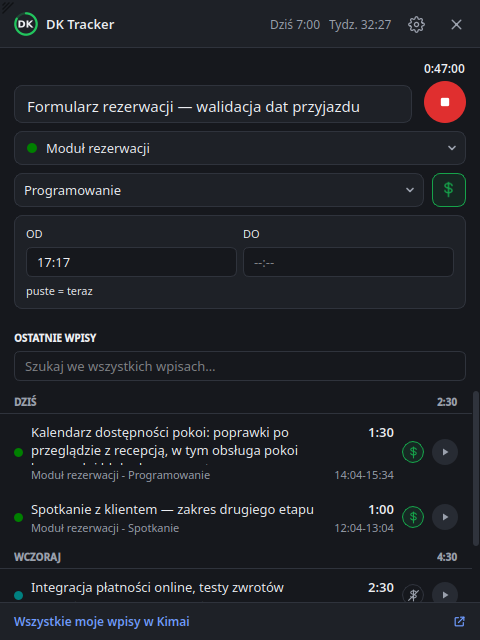
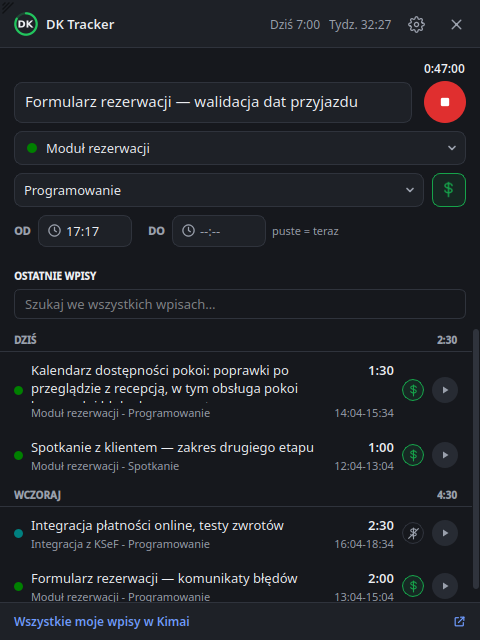
docs: nowy zrzut okienka przy tacce (OD/DO w jednym wierszu)

diff --git a/TODO/W-TRAKCIE/0077-godziny-w-okienku-przy-tacce/prototyp/zrzut-okna.py b/TODO/W-TRAKCIE/0077-godziny-w-okienku-przy-tacce/prototyp/zrzut-okna.py
@@ -1,0 +1,39 @@
+"""The screenshot for README and Discover: the quick window, dark theme, made-up data only.
+
+Copy of 0065/prototyp/zrzut-okna.py for 0.10.9 (times chosen from a list). Run from the repo root:
+    QT_QPA_PLATFORM=offscreen PYTHONPATH=src .venv/bin/python <this file> docs/assets/zrzuty/okno-ciemny-motyw.png
+"""
+import sys
+from dataclasses import replace
+from datetime import timedelta
+sys.path.insert(0, ".")
+from PySide6.QtCore import Qt, QSize
+from PySide6.QtWidgets import QApplication
+app = QApplication([])
+app.styleHints().setColorScheme(Qt.ColorScheme.Dark)
+from dk_tracker.core.i18n import Translator
+from dk_tracker.core.settings import Settings
+from dk_tracker.core.models import Activity
+from dk_tracker.core.tracker import Snapshot, Totals
+from dk_tracker.ui.popup import QuickWindow
+from dk_tracker.ui.state import AppState
+from tests.core.fakes import NOW, FakeClient, make_entry
+c = FakeClient()
+H = timedelta(hours=1)
+running = make_entry(1, NOW - timedelta(minutes=47), description="Formularz rezerwacji — walidacja dat przyjazdu")
+recent = (
+    make_entry(2, NOW - 4 * H, NOW - 2.5 * H, description="Kalendarz dostępności pokoi: poprawki po przeglądzie z recepcją, w tym obsługa pokoi łączonych i blokad na remont"),
+    make_entry(3, NOW - 6 * H, NOW - 5 * H, description="Spotkanie z klientem — zakres drugiego etapu", activity_id=2),
+    replace(make_entry(4, NOW - 26 * H, NOW - 23.5 * H, description="Integracja płatności online, testy zwrotów", billable=False), project_name="Integracja z KSeF", project_color="#008080"),
+    make_entry(5, NOW - 29 * H, NOW - 27 * H, description="Formularz rezerwacji — komunikaty błędów"),
+)
+recent = tuple(replace(e, activity_name="Spotkanie") if e.activity_id == 2 else e for e in recent)
+snap = Snapshot(user=c.user, running=(running,), recent=recent, totals=Totals(today=6 * 3600 + 13 * 60, week=31 * 3600 + 40 * 60), projects=tuple(c.projects_list), non_billable_customers=frozenset({20}))
+state = AppState(Settings(url="https://kimai.example.com", theme="dark"), Translator("pl"))
+w = QuickWindow(state, now=lambda: NOW)
+w.form.set_catalog(snap, remembered_project=1)
+w.form.set_activities([Activity(1, "Programowanie", True, None), Activity(2, "Spotkanie", True, None)], 1)
+state.update(configured=True, snapshot=snap)
+w.set_preferred_size(QSize(480, 640)); w.show()
+for _ in range(5): app.processEvents()
+w.grab().save(sys.argv[1])

diff --git a/TODO/W-TRAKCIE/0077-godziny-w-okienku-przy-tacce/todo.md b/TODO/W-TRAKCIE/0077-godziny-w-okienku-przy-tacce/todo.md
@@ -58,6 +58,9 @@ Po zmianie (render offscreen, ciemny i jasny motyw):
 ![Po: lista godzin i minut, ciemna](zrzuty/po-lista-dark.png)
 ![Po: lista godzin i minut, jasna](zrzuty/po-lista-light.png)
 
+[Skrypt zrzutu okienka](prototyp/zrzut-okna.py) — odświeża
+[okno-ciemny-motyw.png](../../../docs/assets/zrzuty/okno-ciemny-motyw.png) (README, Discover, strona).
+
 ## Dziennik
 
 ### 2026-09-28 12:43
